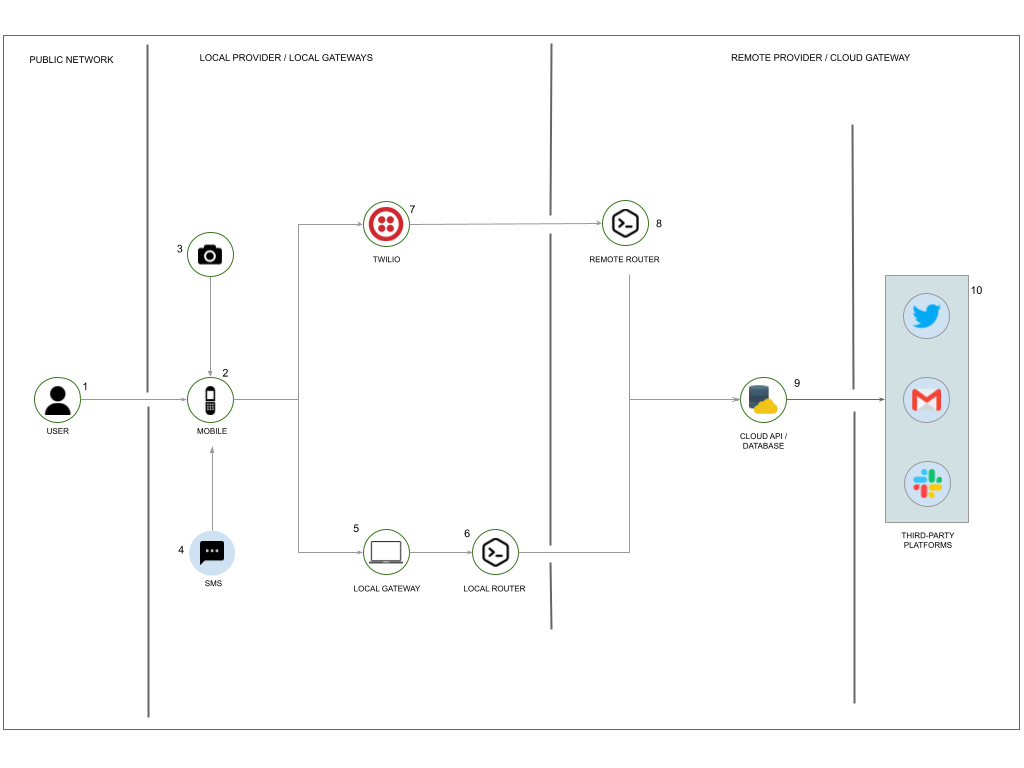
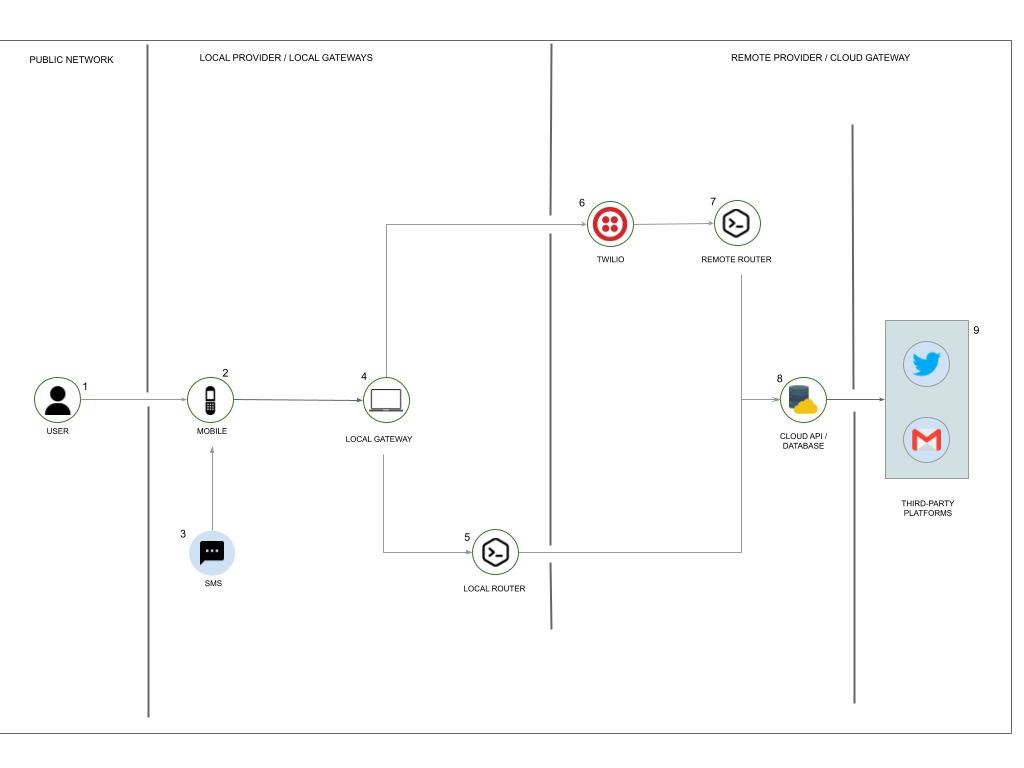
update: updated pic flow of the platform

diff --git a/index.html b/index.html
@@ -150,19 +150,13 @@
 							</tr>
 							<tr>
 								<th scope="row">3</td>
-								<td>Media Content</td>
-								<td>N/A</td>
-								<td>N/A</td>
-							</tr>
-							<tr>
-								<th scope="row">4</td>
 								<td>SMS</td>
 								<td>The contents to be delivered to the third-party apps are transmitted through SMS. The SMS messages are encrypted using a shared key obtained from during the synchronization handshake. Due to the encryption of the base64 format of transmitting the data, the SMS length grows by approximately 33%. Example, if the length is 100 characters, it becomes 133 characters.
 </td>
 								<td>N/A</td>
 							</tr>
 							<tr>
-								<th scope="row">5</td>
+								<th scope="row">4</td>
 								<td>Local Relay-point/Gateways</td>
 								<td>Relay-points (Gateways) are set up to receive SMS’ and transmit them further via SMS or an active internet connection to the cloud server. An example of Gateway in use is Deku, a Linux based SMS management tool which enables both sending and receiving SMS messages using 2G/3G USB modems. The relay-point acts as a middleware transmitter either while online or completely offline; online it communicates directly with the cloud via HTTP connections or offline via further SMS messaging.
 </td>
@@ -173,7 +167,7 @@
 								</td>
 							</tr>
 							<tr>
-								<th scope="row">6</td>
+								<th scope="row">5</td>
 								<td>Local Router</td>
 								<td>Routers authenticate users and their online saved wallets, while online relay-points send information directly to the routers through HTTP connections. Routers on receiving request for transmission perform various forms of authentication after which decryption is done on the data and it’s further passed to a third-party platform. Synced users are accessed and stored at the level of the router, so it is efficient to host the router at the same location as the cloud API</td>
 								<td>
@@ -183,7 +177,7 @@
 								</td>
 							</tr>
 							<tr>
-								<th scope="row">7</td>
+								<th scope="row">6</td>
 								<td>Twilio (Remote Relay-points/Gateways)</td>
 								<td>In cases of lack of internet connections communication with the online cloud server can be achieved by messaging remote relay-points. An example of such relay-points are Twilio, an online messaging service with the ability to use webhooks to communicate with online cloud servers. Certains users have the ability to directly message remote relay-points; this is to reduce the cost of sending SMS messages by messaging the closest relay-points. </td>
 								<td>
@@ -193,7 +187,7 @@
 								</td>
 							</tr>
 							<tr>
-								<th scope="row">8</td>
+								<th scope="row">7</td>
 								<td>Remote Router</td>
 								<td><small>Exactly like the <b>Local Router</b> but completely located on the cloud. This enables remote relay-point to maintain communications</small></td>
 								<td>
@@ -203,7 +197,7 @@
 								</td>
 							</tr>
 							<tr>
-								<th scope="row">9</td>
+								<th scope="row">8</td>
 								<td>Cloud Database</td>
 								<td>The API acts as the central communication module for transmission between the Front End, the routers and the user’s information stored securely on the databases. Its documented use can be accessed from the developers section. It is good practice for developers setting up their own routers to enable data replication with other databases; this helps in the case of central points of failures.
 </td>
@@ -214,7 +208,7 @@
 								</td>
 							</tr>
 							<tr>
-								<th scope="row">10</td>
+								<th scope="row">9</td>
 								<td>Third-Party Platforms</td>
 								<td>Third-party platforms are the intended platforms / services which the user aims to communicate with. These platforms in most cases would be online and would be inaccessible to the user at the time (though not necessarily the case). Platforms like Gmail are directly supported at this time by the app and sending emails can be achieved with them by default
 </td>
